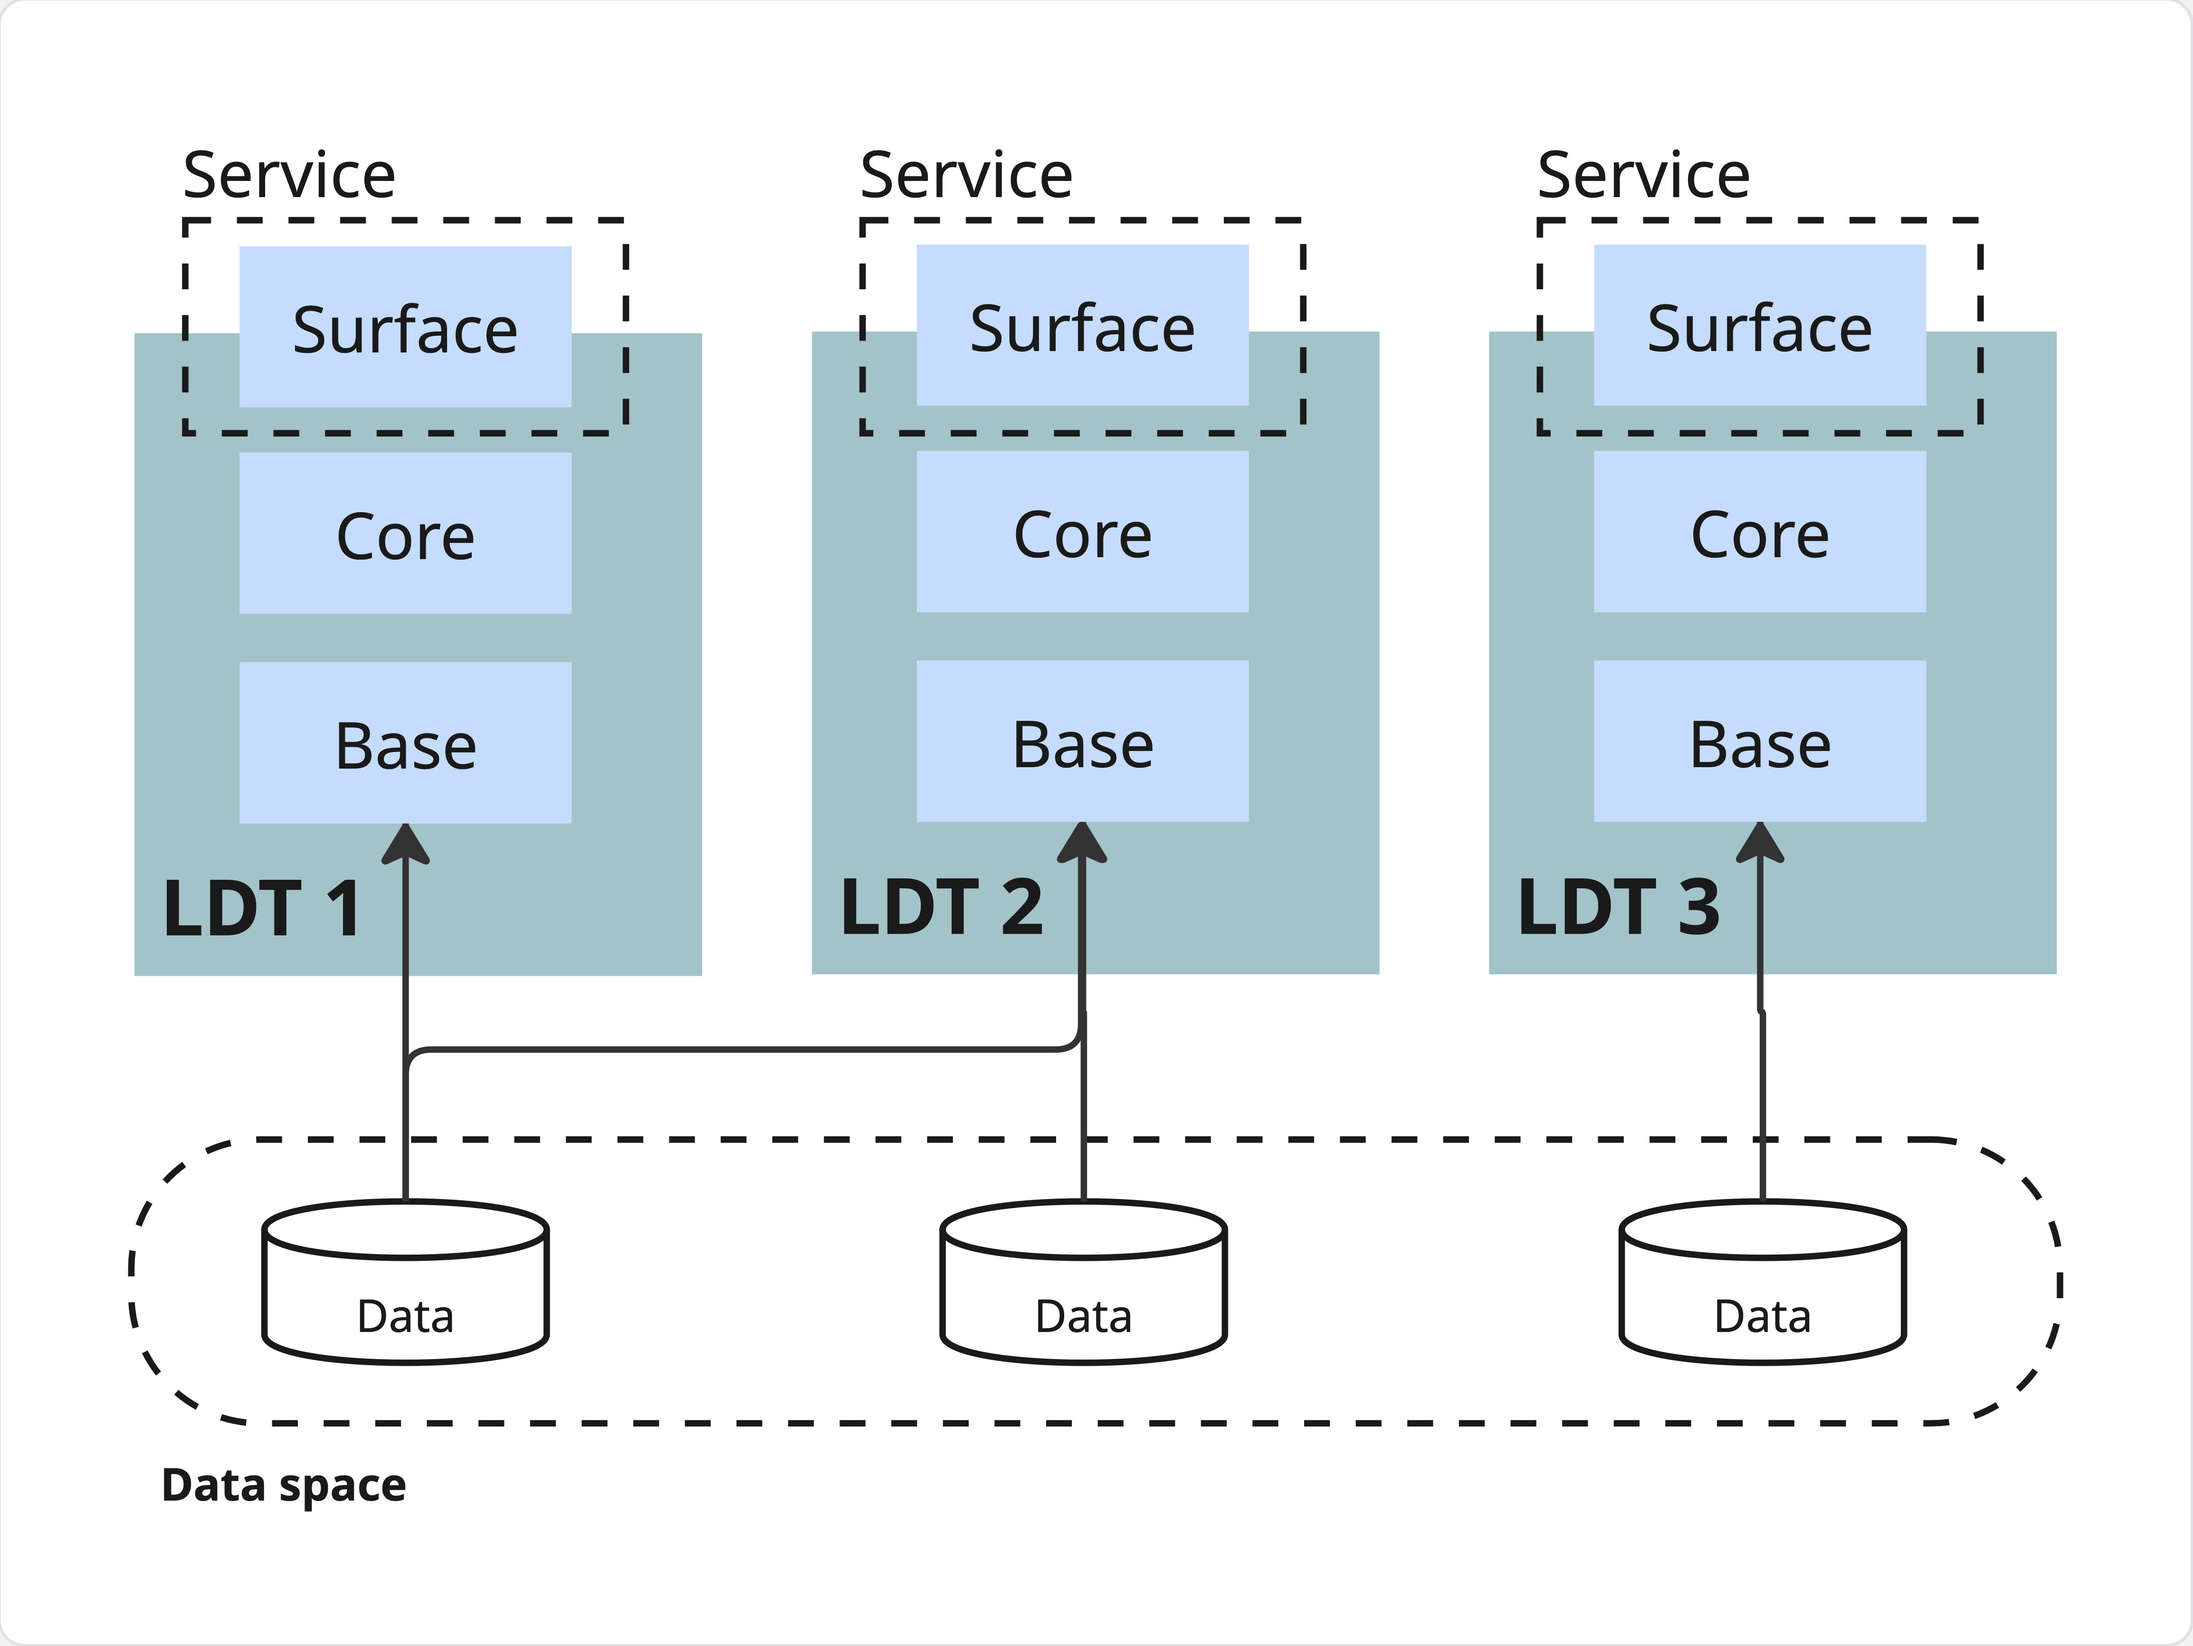
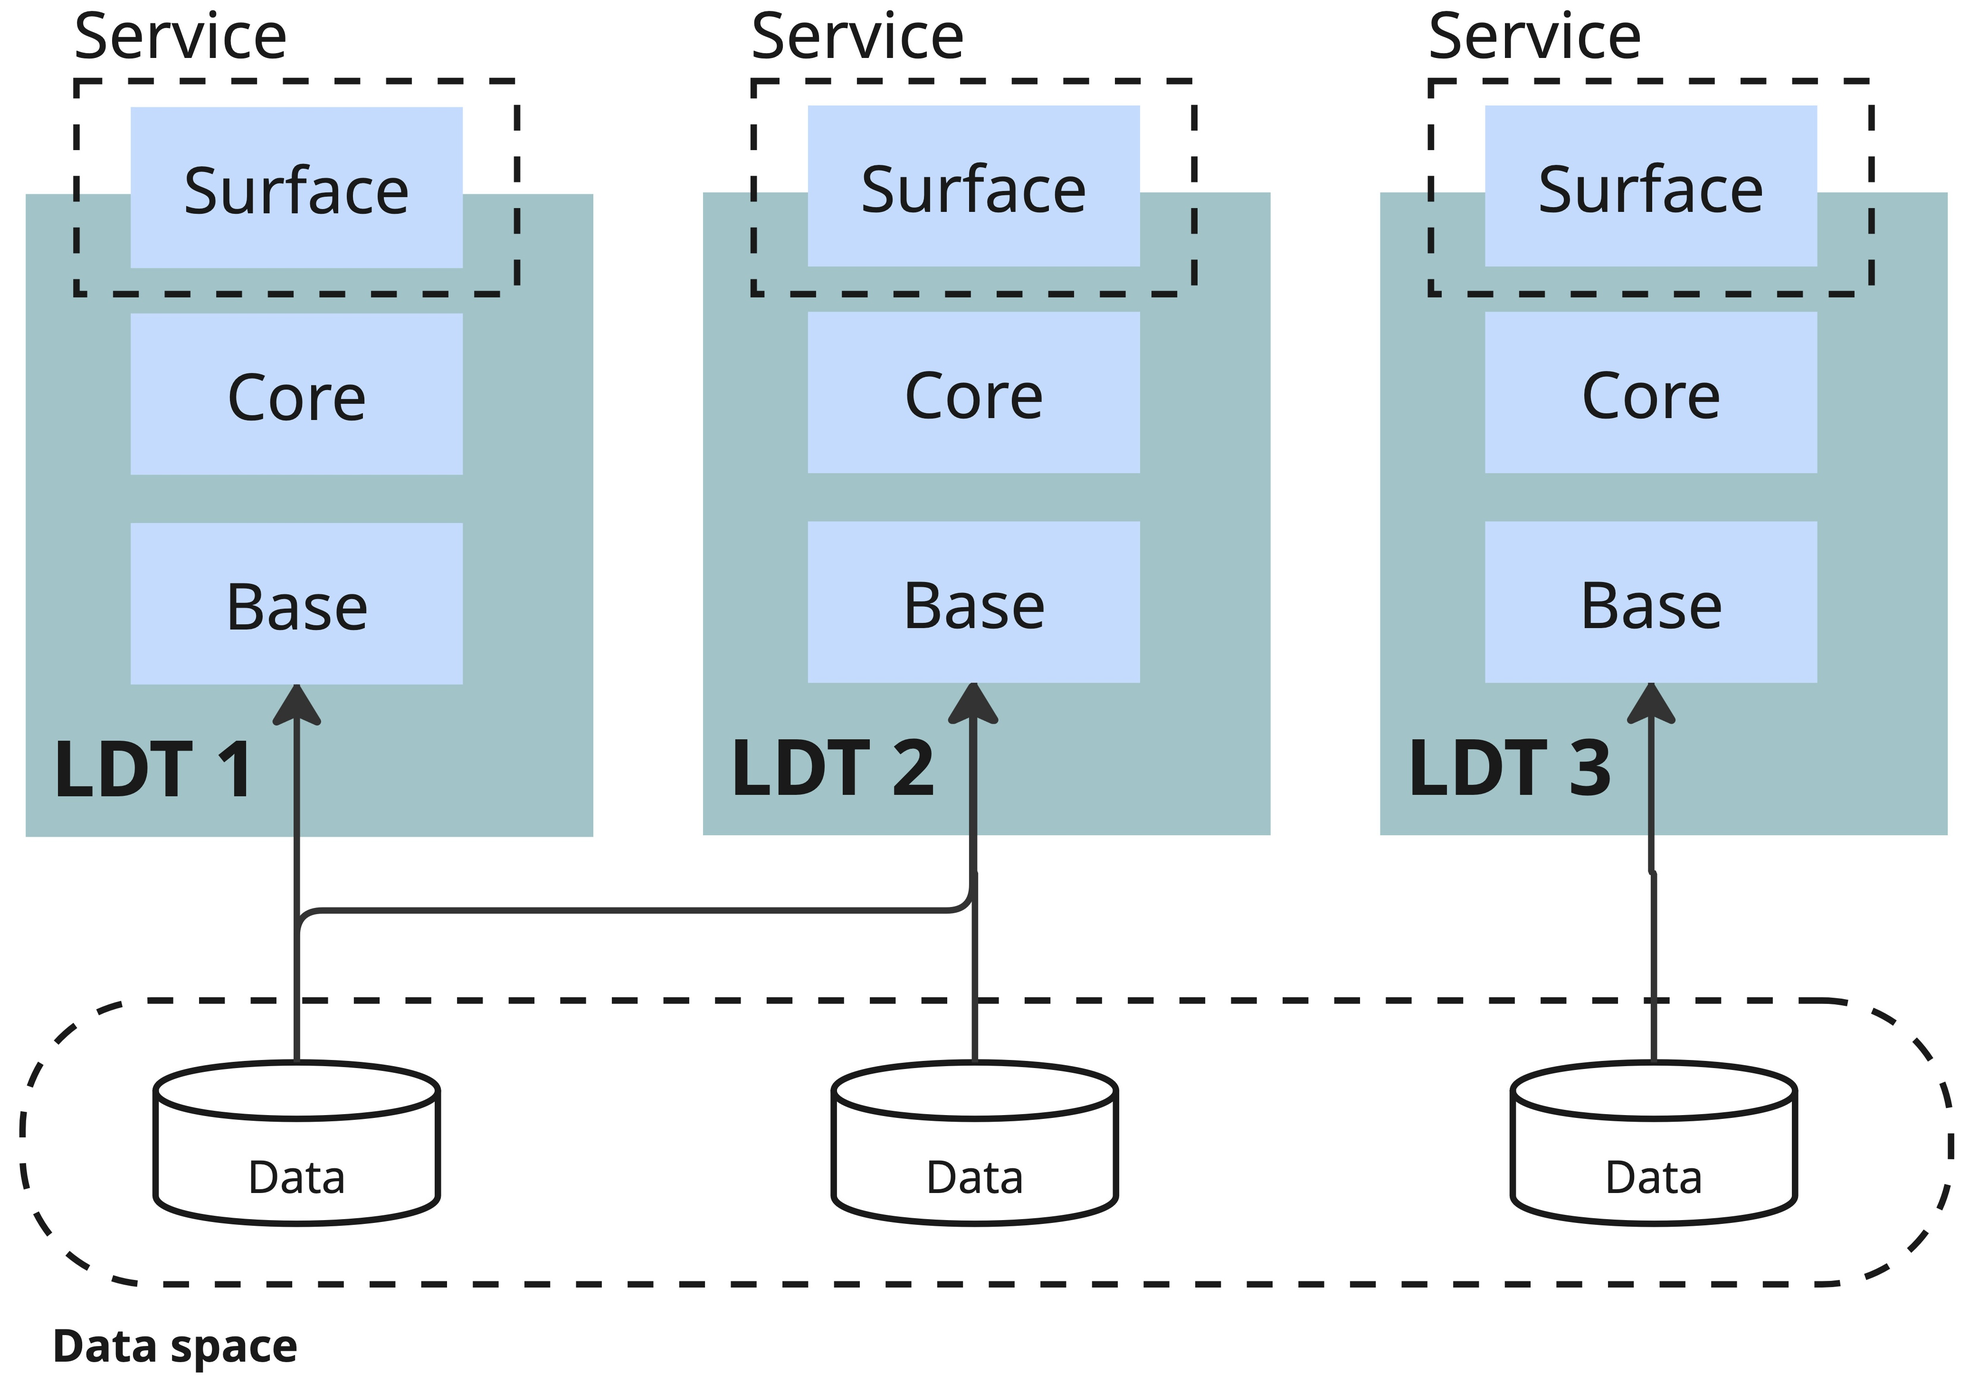
Add section 1.6

Changed region(s): [[0.0, 0.0, 1.0, 0.9997], [0.0, 0.9372, 0.9954, 1.0], [0.9021, 0.7185, 0.9643, 0.7497]]

diff --git a/dist/index.html b/dist/index.html
@@ -1490,7 +1490,7 @@ Possible extra rowspan handling
 </style>
   <meta content="Bikeshed version 945dae3, updated Fri Apr 17 02:01:25 2026 +0000" name="generator">
   <link href="_ORCHESTRATOR_CURRENT_BUILD_FULL_LINK_" rel="canonical">
-  <meta content="015966d2d02e53cb9f6862481178329013e93890" name="revision">
+  <meta content="7a6bd86e28b623533405b5341fe485b9fc9f4c53" name="revision">
   <link href="css/style.css" rel="stylesheet">
 <style>/* Boilerplate: style-autolinks */
 .css.css, .property.property, .descriptor.descriptor {
@@ -2192,6 +2192,76 @@ which align with the Data Acquisition and Data Management components;
 Sharing Data (MIM3) and Securing Data (MIM6),
 which align with the Data Management and Connectivity component.</p>
    <h3 class="heading settled" data-level="1.6" id="relationship-data-spaces"><span class="secno">1.6. </span><span class="content">Relationship between data spaces and LDTs</span><a class="self-link" href="#relationship-data-spaces"></a></h3>
+   <p>An LDT can participate in a data space and may assume multiple roles,
+including both <strong>data consumer</strong> and <strong>data provider</strong>.
+As a <strong>data consumer</strong>, an LDT can access data sources
+through a trusted and governed ecosystem (see <a href="#fig-connect-ldts-via-ds-1">Figure 5</a>).
+This allows the LDT to ingest primary data, such as IoT data streams,
+from multiple organisations and territories, thereby
+extending its reach beyond the systems directly operated within its own local context.
+In addition, an LDT can obtain more elaborate data products through a data space,
+including outputs generated by external systems and services.
+These may enrich the LDT’s own simulations, predictions, and analyses.
+In this sense, a data space is not only a mechanism for exchanging raw data,
+but also an enabler for building more complex systems by
+combining the outputs of multiple services in a governed way.</p>
+   <figure id="fig-connect-ldts-via-ds-1">
+    
+<img alt="TO-DO" height="2913" id="connect-ldts-via-ds-1" src="img/connect-ldts-via-ds-1.jpg" width="4147">
+
+    <figcaption>LDTs can use data from a data space.</figcaption>
+   </figure>
+   <p>As a data provider, an LDT can also expose part of its own outputs to other participants in the data space.
+Although the outputs of an LDT are intrinsically linked to the territory with which it is associated,
+this does not mean that they are useful only within that single LDT.
+Several LDTs may cover the same territory while focusing on different dimensions of it, and
+these perspectives are not mutually exclusive.
+Therefore, the outputs of one LDT may become valuable inputs for another.
+In particular, LDTs can share analysis results,  predictions, simulations, and derived datasets through
+a data space so that other systems can reuse them under agreed governance and usage conditions.
+For example, one LDT may focus on traffic and provide traffic predictions, simulations, and
+analysis tools for a given territory.
+Another LDT covering the same territory may focus on environmental quality and
+use those traffic results as input to estimate emissions or air-quality impacts.
+This LDT could then combine these results with additional variables, such as
+industrial emissions, weather forecasts, wind behaviour, street topology, and the presence
+of green areas, to obtain a more comprehensive understanding of pollutant propagation and absorption.
+In this way, a data space can support the composition of complementary LDT capabilities across systems.
+From a practical perspective,
+current data space technologies can provide several capabilities that are relevant for LDTs:</p>
+   <ul>
+    <li data-md>
+     <p><strong>Trusted and governed data sharing.</strong>
+Data spaces provide a framework for secure
+and policy-based exchange of data and data products between participants.</p>
+    <li data-md>
+     <p><strong>Compute-to-Data.</strong>
+This makes it possible to generate value from data while keeping the data at its source.
+Instead of transferring sensitive or restricted datasets,
+computation is brought to the data, and only the agreed results are shared.</p>
+    <li data-md>
+     <p><strong>Access to data services and APIs.</strong>
+Data spaces may expose not only datasets, but
+also data services and operational capabilities, such as APIs, processing services,
+simulation services, or other reusable components that can be invoked by LDTs.</p>
+    <li data-md>
+     <p><strong>Discovery of data and services.</strong>
+Through mechanisms such as catalogues, registries, or marketplaces, data spaces can support
+the discovery of relevant datasets, services, and offerings that may be integrated into an LDT.</p>
+   </ul>
+   <p><a href="#fig-connect-ldts-via-ds-2">Figure 6</a> illustrates how LDTs can reuse the Surface-level components of another LDT.
+In doing so, these components may use the same data or different data obtained through the data space,
+depending on the needs and context of each LDT.</p>
+   <figure id="fig-connect-ldts-via-ds-2">
+    
+<img alt="TO-DO" height="844" id="connect-ldts-via-ds-2" src="img/connect-ldts-via-ds-2.jpg" width="932">
+
+    <figcaption>Surface-level components of one LDT ideally work with other LDTs as well.</figcaption>
+   </figure>
+   <p>Overall, the relationship between LDTs and data spaces is bidirectional.
+Data spaces can strengthen LDTs by providing governed access to external data and services,
+while LDTs can contribute back valuable derived data products and capabilities.
+This makes data spaces a key interoperability mechanism for connecting LDTs with broader digital ecosystems.</p>
    <h2 class="heading settled" data-level="2" id="building-blocks"><span class="secno">2. </span><span class="content">LDT building blocks based on DSSC &amp; DS4SSCC-DEP building blocks</span><a class="self-link" href="#building-blocks"></a></h2>
    <h3 class="heading settled" data-level="2.1" id="business-organisational-building-blocks"><span class="secno">2.1. </span><span class="content">Business and organisational building blocks</span><a class="self-link" href="#business-organisational-building-blocks"></a></h3>
    <figure>

diff --git a/css/style.css b/css/style.css
@@ -6,7 +6,10 @@ img {
 #high-level-ldt,
 #ldt-add-new-slc,
 #ldt-discovery,
-#focus-on-data-exchange-types {
+#focus-on-data-exchange-types,
+#connect-ldts-via-ds-1,
+#connect-ldts-via-ds-2
+{
     width: 70%;
 }
 

diff --git a/dist/css/style.css b/dist/css/style.css
@@ -6,7 +6,10 @@ img {
 #high-level-ldt,
 #ldt-add-new-slc,
 #ldt-discovery,
-#focus-on-data-exchange-types {
+#focus-on-data-exchange-types,
+#connect-ldts-via-ds-1,
+#connect-ldts-via-ds-2
+{
     width: 70%;
 }
 
